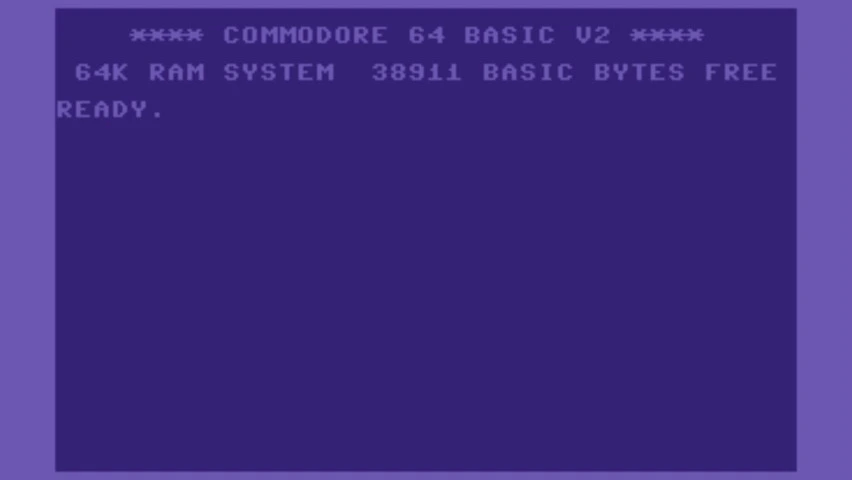
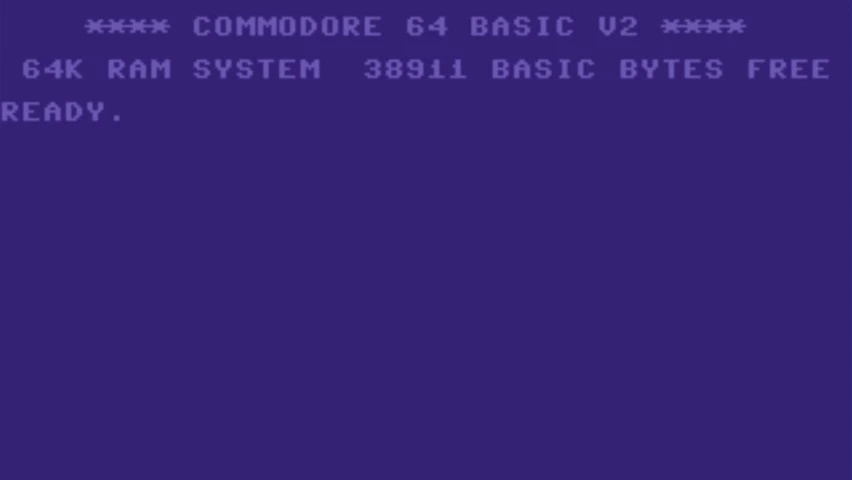
Update Commodore64Basic.vue styling

Changed region(s): [[0.0, 0.0, 1.0, 1.0]]

diff --git a/components/Commodore64Basic.vue b/components/Commodore64Basic.vue
@@ -1,6 +1,6 @@
 <template>
   <video
-    class="my-20 rounded-3xl shadow-lg"
+    class="my-20"
     autoplay
     src="/video/Commodore64Basic.mp4"
     poster="/img/Commodore64Basic.webp"
